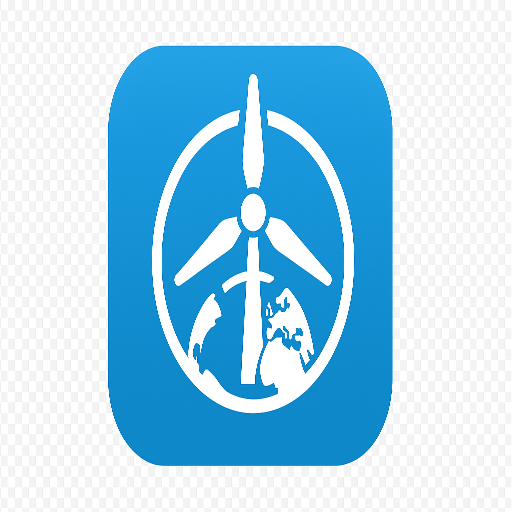
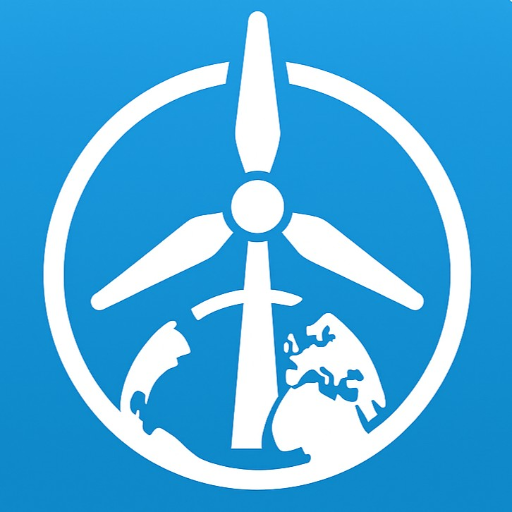
Updates to spash screen

diff --git a/scripts/main.py b/scripts/main.py
@@ -70,12 +70,12 @@ splash_css = """
         z-index: 9999;
     }
     #splash-screen img {
-        width: 150px;
-        height: 150px;
+        width: 900;
+        height: 900px;
     }
     #splash-screen h1 {
         color: white;
-        font-size: 24px;
+        font-size: 48px;
         margin-top: 20px;
     }
 </style>
@@ -84,12 +84,12 @@ splash_css = """
 splash_html = """
 <div id="splash-screen">
     <img src="icon-512.png" alt="Logo">
-    <h1>Welcome to Wind Farms Map</h1>
+    <h1>Wind Farms Map</h1>
 </div>
 <script>
     setTimeout(() => {
         document.getElementById('splash-screen').style.display = 'none';
-    }, 2000);
+    }, 4000);
 </script>
 """
 
